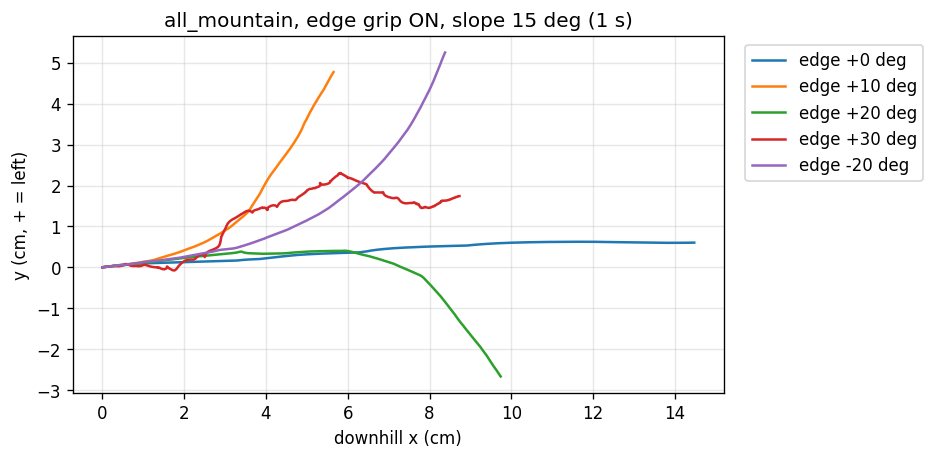
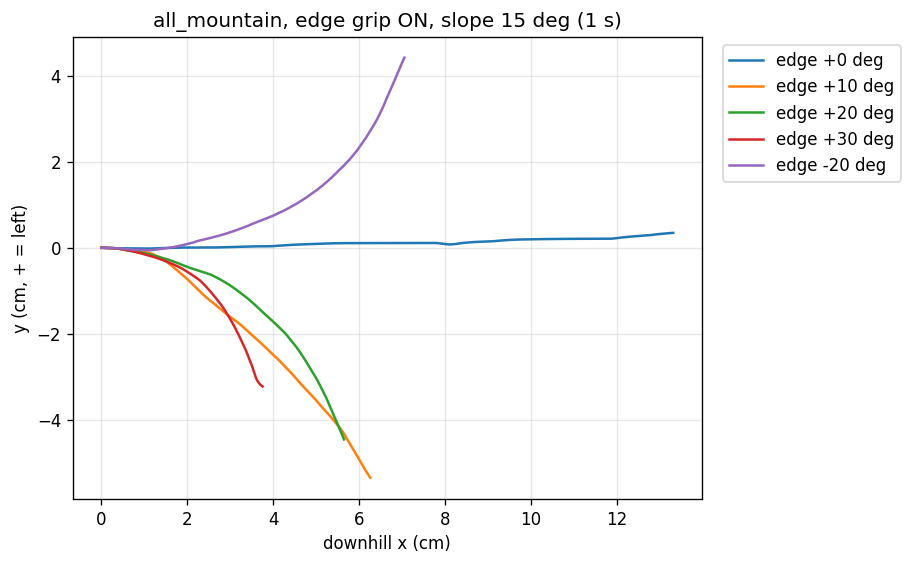
스키 판 볼록성/형상 개선과 눈 슬로프
- 판 전체 굽힘/비틀림 힌지를 하드 등식 구속으로 한 값에 묶음(곡률 일정한 호).
  이전엔 평지/플루크/엣징 모두 스텝의 99~100%가 지그재그(비볼록)였고 지금 0%.
  plate_shape_test.py로 측정
- 둥근 헤드(팁 조각 앞을 세로축 원판으로), 사이드컷 깊이 2배(허리 잘록),
  형광 연두/핑크 판. 엣지 필렛은 판이 엣지로 못 서고 굴러 누워 기본 끔(옵션)
- edge_grip이 조각 body 좌표계로 엣지각을 읽음
- 슬로프 텍스처 잔디 -> 눈, 겨울 하늘, 햇빛
- 카빙 검사: 엣지 +10/+20/+30은 오른쪽, 클수록 작게, -20 왼쪽, 0 직진

diff --git a/flyski_sim/ski_plate.py b/flyski_sim/ski_plate.py
@@ -39,6 +39,15 @@ _BIND_RANGE_RAD = 0.8     # T2 바인딩(부츠) 앞뒤 굽힘 최대 ~46°.
 _BOOT_LATERAL_RATIO = 30.  # 부츠 옆/요 강성 = 앞뒤 강성 x 이 값.
 _BOOT_ROLL_RANGE_RAD = 0.6  # 부츠 롤 가동범위 ±34°(carving_test가 springref로 판을 세움).
 _LEG_BODY_PREFIXES = ('coxa', 'femur', 'tibia', 'tarsus', 'claw')
+# 설면에서 잘 보이는 형광색. 좌/우를 다르게 해서 렌더에서 구분되게.
+# 모서리 캡슐 필렛. 기본 끔: 반지름 = 반두께(완전히 둥근 엣지)면 판이 엣지로 서지 못하고
+# 굴러 누워(엣지 20° 목표에 1.9°) 팽이처럼 돌았다. MuJoCo 마찰은 모서리 모양과 무관해서
+# 각진 모서리가 "걸리는" 현상도 없다(RESEARCH_NOTES 37번). 부분 필렛은 메시가 필요.
+USE_FILLET = False
+# 바인딩(허리)을 더 잘록하게: 프로파일 사이드컷 깊이 x 이 값(사용자 요청, 37번).
+_SIDECUT_DEPTH_SCALE = 2.0
+COUPLE_BENDING = True      # 판 전체 굽힘/비틀림을 한 값으로 묶음(볼록성).
+_PLATE_RGBA = {'left': (0.45, 1.0, 0.05, 1.0), 'right': (1.0, 0.15, 0.75, 1.0)}
 
 
 def _mat_to_quat(R: np.ndarray) -> np.ndarray:
@@ -74,11 +83,17 @@ def _rest_pose_info(walker, joint_angles: dict[str, float] | None = None):
     return info, R_th, x_th, total_mass * gravity
 
 
+def _waist_cm(profile: SkiProfile) -> float:
+    """허리(바인딩) 폭. 프로파일 사이드컷 깊이를 _SIDECUT_DEPTH_SCALE배로 더 잘록하게."""
+    mean_end = (profile.width_tip_cm + profile.width_tail_cm) / 2
+    return mean_end - _SIDECUT_DEPTH_SCALE * (mean_end - profile.width_waist_cm)
+
+
 def _width_at(profile: SkiProfile, s: float) -> float:
     """s∈[-1(테일), +1(팁)]에서의 스키 폭 — 사이드컷을 2차 보간."""
-    if s >= 0:
-        return profile.width_waist_cm + (profile.width_tip_cm - profile.width_waist_cm) * s * s
-    return profile.width_waist_cm + (profile.width_tail_cm - profile.width_waist_cm) * s * s
+    waist = _waist_cm(profile)
+    end = profile.width_tip_cm if s >= 0 else profile.width_tail_cm
+    return waist + (end - waist) * s * s
 
 
 def plate_sidecut_radius_cm(profile: SkiProfile, length_cm: float) -> float:
@@ -87,7 +102,7 @@ def plate_sidecut_radius_cm(profile: SkiProfile, length_cm: float) -> float:
     깊이 = ((팁 폭 + 테일 폭)/2 - 허리 폭)/2. 프로파일의 `sidecut_radius_cm`(0.45~1.1cm)는
     옛 미니스키(길이 0.12~0.22cm) 기준 설계 상수라 지금 판(~0.4cm) 형상과 맞지 않는다.
     """
-    depth = ((profile.width_tip_cm + profile.width_tail_cm) / 2 - profile.width_waist_cm) / 2
+    depth = ((profile.width_tip_cm + profile.width_tail_cm) / 2 - _waist_cm(profile)) / 2
     return float(length_cm ** 2 / (8 * max(depth, 1e-6)))
 
 
@@ -148,15 +163,42 @@ def attach_side_plates(walker, profile: SkiProfile,
                 kw['quat'] = tuple(quat)
             body = parent.add('body', **kw)
             s = (idx - m) / m                                  # -1(테일)~+1(팁).
-            g = body.add('geom', name=f'ski_geom_{side}_s{idx}', type='box',
-                         size=(seg_len / 2, _width_at(profile, s) / 2, HALF_THICKNESS_CM),
-                         mass=seg_mass, contype=1, conaffinity=1, condim=3,
-                         # priority=1: 스키-지면 접촉은 지면이 아니라 이 geom의
-                         # 마찰(설질별 ski_friction, 매 스텝 갱신)을 쓴다.
-                         priority=1, friction=(0.05, 0.005, 0.0001),
-                         rgba=(0.7, 0.85, 1.0, 0.9))
+            half_w = _width_at(profile, s) / 2
+            r = HALF_THICKNESS_CM
+            # 필렛: 가운데 얇은 box + 양쪽 긴 모서리 캡슐(반지름 = 판 반두께). 옆 엣지와
+            # 조각 끝이 둥글어서 직진/정지 때 각진 모서리가 설면에 걸리지 않는다. 엣지
+            # 그립은 형상이 아니라 엣지각 기반 모델(edge_grip.py)이라 필렛이 그립을 줄이지는
+            # 않는다(실제 스키라면 둥근 엣지는 덜 박힘).
+            # priority=1: 스키-지면 접촉은 지면이 아니라 이 geom의 마찰(설질별 ski_friction,
+            # 매 스텝 갱신)을 쓴다.
+            common = dict(contype=1, conaffinity=1, condim=3, priority=1,
+                          friction=(0.05, 0.005, 0.0001), rgba=_PLATE_RGBA[side])
+            if not USE_FILLET and idx == n_segments - 1:
+                # 팁 조각: 위에서 봤을 때 둥근 헤드. 앞쪽 half_w 만큼을 세로축 원판으로
+                # 바꿔 평면상 반원 끝이 되게 한다(옆 엣지는 각진 그대로).
+                body.add('geom', name=f'ski_geom_{side}_s{idx}', type='box',
+                         size=((seg_len - half_w) / 2, half_w, r), pos=(-half_w / 2, 0., 0.),
+                         mass=0.7 * seg_mass, **common)
+                body.add('geom', name=f'ski_geom_{side}_s{idx}_head', type='cylinder',
+                         size=(half_w, r), pos=(seg_len / 2 - half_w, 0., 0.),
+                         mass=0.3 * seg_mass, **common)
+                bodies.append(body)
+                geoms.extend(body.find_all('geom'))
+                return body
+            if not USE_FILLET:
+                body.add('geom', name=f'ski_geom_{side}_s{idx}', type='box',
+                         size=(seg_len / 2, half_w, r), mass=seg_mass, **common)
+                bodies.append(body)
+                geoms.extend(body.find_all('geom'))
+                return body
+            body.add('geom', name=f'ski_geom_{side}_s{idx}', type='box',
+                     size=(seg_len / 2, half_w - r, r), mass=0.6 * seg_mass, **common)
+            for k, y in (('L', half_w - r), ('R', -(half_w - r))):
+                body.add('geom', name=f'ski_geom_{side}_s{idx}_{k}', type='capsule',
+                         fromto=(-seg_len / 2, y, 0., seg_len / 2, y, 0.), size=(r,),
+                         mass=0.2 * seg_mass, **common)
             bodies.append(body)
-            geoms.append(g)
+            geoms.extend(body.find_all('geom'))
             return body
 
         root = add_segment(t2['claw'], m, root_pos, root_quat)
@@ -174,6 +216,7 @@ def attach_side_plates(walker, profile: SkiProfile,
                      pos=tuple(t2_tip_plate), **hinge_kw(k_bind * ratio, rng=(-rng, rng)))
 
         seg_by_idx = {m: root}
+        chain = {}                                            # (굽힘/비틀림, 방향) -> 힌지들.
         for direction in (+1, -1):
             parent = root
             for step in range(1, m + 1):
@@ -182,13 +225,30 @@ def attach_side_plates(walker, profile: SkiProfile,
                 hinge_pos = (-direction * seg_len / 2, 0., 0.)
                 # 캠버(+)=팁/테일이 아래로, 로커(-)=위로. +y 회전은 +x 끝을 내린다.
                 ref = direction * profile.rocker_camber * np.deg2rad(_CAMBER_DEG_PER_HINGE)
-                body.add('joint', name=f'ski_bend_{side}_s{idx}', type='hinge',
-                         axis=(0, 1, 0), pos=hinge_pos, springref=float(ref),
-                         **hinge_kw(k_bend))
-                body.add('joint', name=f'ski_twist_{side}_s{idx}', type='hinge',
-                         axis=(1, 0, 0), pos=hinge_pos, **hinge_kw(k_tors))
+                chain.setdefault(('bend', direction), []).append(body.add(
+                    'joint', name=f'ski_bend_{side}_s{idx}', type='hinge',
+                    axis=(0, 1, 0), pos=hinge_pos, springref=float(ref), **hinge_kw(k_bend)))
+                chain.setdefault(('twist', direction), []).append(body.add(
+                    'joint', name=f'ski_twist_{side}_s{idx}', type='hinge',
+                    axis=(1, 0, 0), pos=hinge_pos, **hinge_kw(k_tors)))
                 seg_by_idx[idx] = body
                 parent = body
+
+        # 볼록성: 힌지가 제각각 꺾이면 판이 지그재그(비볼록)가 됐다(평지/플루크/엣징 모두
+        # 스텝의 99~100%, RESEARCH_NOTES 37번). 절반씩 묶어도 플루크에선 T1/T3 발이 팁과
+        # 테일을 서로 반대로 밀어 S자가 됐다. 그래서 판 전체 굽힘/비틀림을 한 값으로 묶어
+        # 곡률(비틀림률)이 일정한 판이 되게 한다. 테일 쪽 힌지는 부모가 +x 쪽이라 같은
+        # 모양에서 각의 부호가 팁 쪽과 반대이고, 캠버 springref도 +/-로 대칭이다.
+        for kind in (('bend', 'twist') if COUPLE_BENDING else ()):
+            leader = chain[(kind, +1)][0]
+            for direction in (+1, -1):
+                for follower in chain[(kind, direction)]:
+                    if follower is leader:
+                        continue
+                    model.equality.add('joint', name=f'ski_{kind}_couple_{follower.name}',
+                                       joint1=follower, joint2=leader,
+                                       polycoef=(0., float(direction), 0., 0., 0.),
+                                       solref=(0.0004, 1.), solimp=(0.99, 0.999, 0.001, 0.5, 2.))
 
         def add_binding_post(leg, idx, tip_plate):
             """시각 전용(충돌 없음) 바인딩 기둥: 판 중심선 윗면 -> 발끝. 구속 자체는

diff --git a/flyski_sim/plate_shape_test.py b/flyski_sim/plate_shape_test.py
@@ -1,0 +1,95 @@
+# 스키 플레이트(힌지 체인)의 굽힘 모양이 볼록한지(지그재그 없는지)와 하중에 따른 휨을 측정하는 검사
+"""판 모양 검사(RESEARCH_NOTES 37번).
+
+판은 7조각 + 굽힘 힌지 6개 체인이라 힌지가 제각각 꺾이면 실제 스키에는 없는 지그재그
+(비볼록) 모양이 나올 수 있다. 굽힘 힌지 각을 캠버 기준각(springref) 대비로 보고,
+- zigzag_frac: |각| > 0.05°인 힌지들 사이에서 부호가 바뀌는 스텝의 비율(0이 이상적),
+- sag_um: 팁-테일 기준선 대비 판 중앙 처짐(um, + = 가운데가 판 아래쪽으로 = 역캠버),
+- bend_curv: 굽힘 힌지 각 합 / 판 길이(1/cm).
+을 세 상황(평지 스탠스, 15° 사면 플루크 20°/15°, 15° 사면 부츠 캔팅 엣지 20°)에서 잰다.
+
+    python -m flyski_sim.plate_shape_test
+"""
+from __future__ import annotations
+
+import numpy as np
+
+from flyski_sim import carving_test, snowplow_test
+from flyski_sim.ski_stance import snowplow_pose
+from flyski_sim.ski_test import build_flat_ski_env
+
+THRESH = np.deg2rad(0.05)
+
+
+def _hinges(p, task, side):
+    names = sorted((j for b in task.skis[side].bodies for j in b.get_children('joint')
+                    if j.name.startswith('ski_bend_')), key=lambda j: int(j.name.split('_s')[-1]))
+    return [p.model.name2id(j.full_identifier, 'joint') for j in names]
+
+
+def _shape(p, task, side, jids):
+    m = p.model
+    dev = np.array([p.data.qpos[m.jnt_qposadr[j]] - m.qpos_spring[m.jnt_qposadr[j]] for j in jids])
+    # 판 길이 방향 순서(테일->팁)로 정렬돼 있다. 테일 쪽 힌지는 부호가 반대로 정의돼
+    # 있어서(체인이 가운데서 양쪽으로 뻗음) 같은 모양이면 같은 부호가 되게 맞춘다.
+    n = len(dev)
+    signed = np.where(np.arange(n) < n // 2, -dev, dev)
+    big = signed[np.abs(signed) > THRESH]
+    zig = bool(len(big) > 1 and np.any(np.sign(big[1:]) != np.sign(big[:-1])))
+    bodies = sorted(task.skis[side].bodies, key=lambda b: int(b.name.split('_s')[-1]))
+    pts = np.array([p.bind(b).xpos for b in bodies])
+    R = p.bind(task.skis[side].root_body).xmat.reshape(3, 3)
+    z = pts @ R[:, 2]
+    sag = 0.5 * (z[0] + z[-1]) - z[len(z) // 2]
+    length = 2 * task.skis[side].half_length_cm
+    return zig, sag * 1e4, float(np.sum(signed)) / length
+
+
+def measure(env, task, action_fn, steps, skip):
+    p = env.physics
+    jids = {s: _hinges(p, task, s) for s in task.skis}
+    zig, sag, curv = [], [], []
+    for k in range(steps):
+        env.step(action_fn(k))
+        if k >= skip:
+            for s in task.skis:
+                z, sg, cv = _shape(p, task, s, jids[s])
+                zig.append(z)
+                sag.append(sg)
+                curv.append(cv)
+    return dict(zigzag_frac=round(float(np.mean(zig)), 2), sag_um=round(float(np.mean(sag)), 2),
+                sag_um_range=(round(float(np.min(sag)), 1), round(float(np.max(sag)), 1)),
+                bend_curv=round(float(np.mean(curv)), 4))
+
+
+def main():
+    out = {}
+    env, task = build_flat_ski_env('all_mountain', 5)
+    env.reset()
+    nu = env.action_spec().shape[0]
+    out['flat_stance'] = measure(env, task, lambda k: np.zeros(nu), 300, 100)
+
+    env, task = snowplow_test.build()
+    env.reset()
+    names = env.action_spec().name.split('\t')
+    pose, _ = snowplow_pose(task.walker, 20., 15.)
+    off = np.array([pose[n] - task._stance[n] if n in pose else 0. for n in names])
+    out['slope_snowplow_20_15'] = measure(env, task, lambda k: off * min(k / 20, 1.), 150, 50)
+
+    env, task = carving_test.build()
+    env.reset()
+    p = env.physics
+    rolls = [p.model.name2id(f'walker/ski_bind_{s}_roll', 'joint') for s in task.skis]
+
+    def cant(k):
+        if k * env.control_timestep() > 0.05:
+            p.model.qpos_spring[p.model.jnt_qposadr[rolls]] = np.deg2rad(20.)
+        return np.zeros(len(names))
+    out['slope_edge20'] = measure(env, task, cant, 500, 150)
+    for k, v in out.items():
+        print(k, v)
+    return out
+
+
+if __name__ == '__main__':
+    main()

diff --git a/flyski_sim/terrain.py b/flyski_sim/terrain.py
@@ -217,6 +217,28 @@ class SlopedMoguls(Hills):
                       grid_density=grid_density,
                       elevation_z_range=(0., 0.))  # 사용 안 함(bowl 미사용)
 
+        # 외관: Hills 기본(outdoor_natural)은 잔디 텍스처라 눈 슬로프로 바꾼다. 흰 바탕에
+        # 푸른빛 알갱이(random 마크)로 눈 결을, 하늘은 겨울 하늘 그라데이션으로.
+        if aesthetic != 'default':
+            self._texture.file = None
+            self._texture.type = '2d'
+            self._texture.set_attributes(builtin='flat', rgb1=(0.93, 0.95, 0.98),
+                                         rgb2=(0.72, 0.80, 0.92), mark='random',
+                                         random=0.25, width=512, height=512)
+            self._material.set_attributes(texrepeat=(40, 40), reflectance=0., emission=0.45,
+                                          specular=0.35, shininess=0.3)
+            self._skybox.file = None
+            self._skybox.gridsize = None
+            self._skybox.gridlayout = None
+            self._skybox.set_attributes(builtin='gradient', rgb1=(0.55, 0.72, 0.92),
+                                        rgb2=(0.97, 0.98, 1.0), width=512, height=3072)
+            # 초파리 추적 스포트라이트 밖은 회색으로 어두워서 햇빛(방향광)을 더한다. 헤드라이트는
+            # 초파리 모델이 이미 정해 둬서 바꾸면 mjcf 병합 충돌이 난다.
+            self._mjcf_root.worldbody.add('light', name='sun', directional='true',
+                                          pos=(0, 0, 50), dir=(0.3, 0.2, -1.),
+                                          diffuse=(0.9, 0.9, 0.92), specular=(0.1, 0.1, 0.1),
+                                          castshadow='false')
+
         # 다리 6개 + adhesion claw가 모두 hfield와 접촉 가능해서 기본 njmax/nconmax로는
         # 제약조건 스택이 부족해 mj_stackAlloc 오류가 났다(fruitfly.xml이 이미
         # njmax/nconmax를 쓰므로 'memory' 속성과 섞어 쓸 수 없음 — 같은 계열로 확대).

diff --git a/flyski_sim/edge_grip.py b/flyski_sim/edge_grip.py
@@ -81,7 +81,8 @@ class EdgeGrip:
             mujoco.mj_contactForce(m, d, i, self._f6)
             N = min(max(self._f6[0], 0.), self._n_cap)
             side = self._geom_side[g]
-            ey = d.geom_xmat[g].reshape(3, 3)[:, 1]
+            # 조각 body 좌표계(geom 좌표계는 캡슐 필렛이면 축이 돌아가 있음).
+            ey = d.xmat[m.geom_bodyid[g]].reshape(3, 3)[:, 1]
             phi = float(np.arcsin(min(abs(ey @ n), 1.)))
             # 카빙 호의 접선: 판 축(지면 투영)을 접촉점 위치 s만큼 엣지 쪽으로 돌린다.
             # ey*n > 0 = 왼쪽(+y)이 들림 = 오른쪽 엣지 = 오른쪽(시계방향, 곡률 -)으로 돎.
